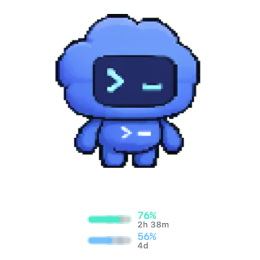
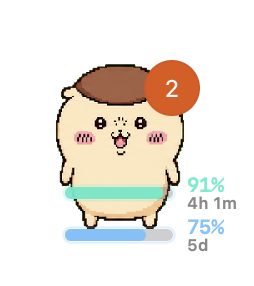
docs: README 예시 이미지를 실제 캡처로 교체

diff --git a/tools/codex-pet-limit-rings.swift b/tools/codex-pet-limit-rings.swift
@@ -284,7 +284,6 @@ struct LimitRingsConfig {
     var previewUsesSampleData: Bool = false
     var previewShowsToasts: Bool = false
     var previewUsesBackground: Bool = false
-    var previewPetImagePath: URL?
     var fallbackSize: CGFloat = 220
     var mouseMonitorEnabled: Bool = true
 }
@@ -945,15 +944,16 @@ struct LimitRingRenderer {
     var barOffset: CGSize
     var checkPulse: CGFloat
     var usageToastTurns: [UsageTurnSummary]
-    var previewPetImagePath: URL? = nil
+    var previewUsesBackground: Bool = false
 
     func draw(in rect: CGRect) {
         guard let context = NSGraphicsContext.current?.cgContext else { return }
         context.saveGState()
         context.setShouldAntialias(true)
         context.clear(rect)
-        if let previewPetImagePath {
-            drawPreviewPet(imagePath: previewPetImagePath, in: rect, displayStyle: displayStyle)
+        if previewUsesBackground {
+            context.setFillColor(NSColor(calibratedWhite: 0.07, alpha: 1.0).cgColor)
+            context.fill(rect)
         }
 
         switch displayStyle {
@@ -2987,12 +2987,6 @@ func renderPreview(config: LimitRingsConfig) -> Bool {
     let size = CGSize(width: config.fallbackSize, height: config.fallbackSize)
     let image = NSImage(size: size)
     image.lockFocus()
-    if config.previewUsesBackground {
-        NSColor(calibratedWhite: 0.07, alpha: 1.0).setFill()
-    } else {
-        NSColor.clear.setFill()
-    }
-    NSRect(origin: .zero, size: size).fill()
     LimitRingRenderer(
         state: state,
         displayStyle: config.previewStyle,
@@ -3000,7 +2994,7 @@ func renderPreview(config: LimitRingsConfig) -> Bool {
         barOffset: .zero,
         checkPulse: 0.55,
         usageToastTurns: toastTurns,
-        previewPetImagePath: config.previewPetImagePath
+        previewUsesBackground: config.previewUsesBackground
     ).draw(in: CGRect(origin: .zero, size: size))
     image.unlockFocus()
 
@@ -3019,28 +3013,6 @@ func renderPreview(config: LimitRingsConfig) -> Bool {
         fputs("codex-pet-limit-rings: could not write preview: \(error)\n", stderr)
         return false
     }
-}
-
-private func drawPreviewPet(imagePath: URL, in rect: CGRect, displayStyle: UsageDisplayStyle) {
-    guard let image = NSImage(contentsOf: imagePath) else { return }
-    let petSize: CGFloat
-    let center: CGPoint
-    switch displayStyle {
-    case .rings:
-        let ringAreaHeight = max(1.0, rect.height - usageRingTopPadding)
-        petSize = min(rect.width, ringAreaHeight) * 0.78
-        center = CGPoint(x: rect.midX, y: ringAreaHeight / 2.0)
-    case .bars:
-        petSize = min(rect.width * 0.62, rect.height * 0.62)
-        center = CGPoint(x: rect.midX, y: rect.midY + petSize * 0.22)
-    }
-    let petRect = CGRect(
-        x: center.x - petSize / 2.0,
-        y: center.y - petSize / 2.0,
-        width: petSize,
-        height: petSize
-    )
-    image.draw(in: petRect, from: .zero, operation: .sourceOver, fraction: 1.0)
 }
 
 private func samplePreviewLimitState() -> LimitState {
@@ -3099,7 +3071,7 @@ func parseConfig() -> LimitRingsConfig? {
         switch arg {
         case "--help", "-h":
             print("""
-            Usage: codex-pet-limit-rings [--preview PATH] [--preview-style rings|bars] [--preview-sample] [--preview-toasts] [--preview-background] [--preview-pet PATH] [--codex-home PATH] [--logs PATH] [--turn-usage-state PATH] [--turn-usage-summary PATH] [--state PATH] [--no-mouse-monitor]
+            Usage: codex-pet-limit-rings [--preview PATH] [--preview-style rings|bars] [--preview-sample] [--preview-toasts] [--preview-background] [--codex-home PATH] [--logs PATH] [--turn-usage-state PATH] [--turn-usage-summary PATH] [--state PATH] [--no-mouse-monitor]
 
             Draws a transparent Codex rate-limit overlay near the current pet using local Codex logs.
             """)
@@ -3121,10 +3093,6 @@ func parseConfig() -> LimitRingsConfig? {
             config.previewShowsToasts = true
         case "--preview-background":
             config.previewUsesBackground = true
-        case "--preview-pet":
-            guard let value = args.first else { return nil }
-            args.removeFirst()
-            config.previewPetImagePath = URL(fileURLWithPath: value)
         case "--codex-home":
             guard let value = args.first else { return nil }
             args.removeFirst()

diff --git a/README.md b/README.md
@@ -2,11 +2,11 @@
 
 Codex 펫 주변에 사용량 한도를 링이나 바로 표시하는 macOS 보조 앱입니다. Codex 앱 번들을 수정하지 않고, 로컬 Codex 상태와 사용량 로그만 읽어 별도 투명 오버레이 창을 그립니다.
 
-앱은 펫 이미지를 교체하지 않습니다. Codex 기본 펫이나 사용자가 선택한 커스텀 펫을 그대로 쓰고, 그 주변에 사용량 표시만 얹습니다.
+앱은 펫 이미지를 교체하지 않습니다. Codex가 현재 띄운 펫을 그대로 쓰고, 그 주변에 사용량 표시만 얹습니다.
 
-![Codex 기본 펫 아래에 표시된 바 스타일 사용량 오버레이](docs/assets/usage-bars-preview.png)
+<img src="docs/assets/usage-bars-preview.png" alt="현재 Codex 펫 아래에 표시된 바 스타일 사용량 오버레이" width="360">
 
-위 이미지는 Codex 기본 펫을 합성한 문서용 예시입니다. 실제 실행 시에는 Codex가 띄운 현재 펫을 그대로 따라갑니다.
+위 이미지는 실제 실행 화면 예시입니다. 펫은 Codex가 띄운 현재 펫이고, 아래 두 줄만 이 앱이 그리는 바 스타일 오버레이입니다.
 
 ## 빠른 설치
 
@@ -52,29 +52,25 @@ tools/install-codex-skill.sh
 
 ## 이미지로 보는 UI
 
-아래 이미지는 Codex 기본 펫과 샘플 데이터를 합성한 문서용 예시입니다. 실제 퍼센트와 리셋 시간은 사용자의 로컬 Codex 로그에 따라 바뀝니다.
+아래 이미지는 실제 실행 화면 예시입니다. 퍼센트와 리셋 시간은 사용자의 로컬 Codex 로그에 따라 바뀝니다.
 
 ### 링
 
-![링 스타일 사용량 오버레이](docs/assets/usage-rings-preview.png)
+<img src="docs/assets/usage-rings-preview.png" alt="링 스타일 사용량 오버레이" width="360">
 
-새 설치의 기본 표시입니다. 가운데에는 Codex 기본 펫 또는 현재 선택한 펫이 보이고, 바깥 링은 짧은 사용량 창, 안쪽 링은 주간 한도의 남은 비율을 보여 줍니다.
+새 설치의 기본 표시입니다. 가운데에는 현재 Codex 펫이 보이고, 바깥 링은 짧은 사용량 창, 안쪽 링은 주간 한도의 남은 비율을 보여 줍니다.
 
 ### 바
 
-![바 스타일 사용량 오버레이](docs/assets/usage-bars-preview.png)
+<img src="docs/assets/usage-bars-preview.png" alt="바 스타일 사용량 오버레이" width="360">
 
 더 작게 보고 싶을 때 쓰는 표시입니다. 위쪽 바는 짧은 사용량 창, 아래쪽 바는 주간 한도입니다. `Display Style`을 `Bars`로 바꾸면 폭과 위치를 메뉴에서 조정할 수 있습니다.
 
 ### 메뉴
 
-![메뉴 막대 항목 예시](docs/assets/usage-menu-preview.png)
+<img src="docs/assets/usage-menu-preview.png" alt="메뉴 막대 항목 예시" width="360">
 
 메뉴 막대 아이콘에서 오버레이 표시, 링/바 전환, 바 위치, 최근 턴 사용량, 새로고침, 종료를 제어합니다. `Track Turn Usage`는 기본 꺼짐입니다.
-
-### 토스트
-
-![최근 턴 사용량 토스트 예시](docs/assets/usage-toast-preview.png)
 
 `Track Turn Usage`와 `Show Usage Toasts`를 켜면 새 턴 사용량이 관측될 때 짧은 토스트가 뜹니다. `Used`는 `max(0, In - Cached) + Out`으로 계산한 goal 스타일 토큰 값입니다.
 
@@ -143,14 +139,6 @@ swiftc tools/codex-pet-limit-rings.swift -o tmp/codex-pet-limit-rings -framework
 tmp/codex-pet-limit-rings --preview tmp/limit-rings-preview.png --size 164
 bash -n tools/*.sh
 tools/test-limit-rings-usage.sh
-```
-
-문서용 샘플 이미지:
-
-```bash
-tmp/codex-pet-limit-rings --preview docs/assets/usage-rings-preview.png --preview-sample --preview-style rings --preview-background --preview-pet docs/assets/codex-default-pet.png --size 260
-tmp/codex-pet-limit-rings --preview docs/assets/usage-bars-preview.png --preview-sample --preview-style bars --preview-background --preview-pet docs/assets/codex-default-pet.png --size 260
-tmp/codex-pet-limit-rings --preview docs/assets/usage-toast-preview.png --preview-sample --preview-style rings --preview-toasts --preview-background --preview-pet docs/assets/codex-default-pet.png --size 260
 ```
 
 ## 라이선스
